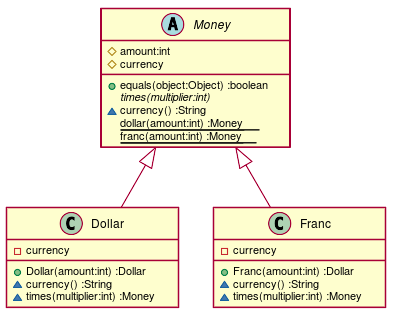
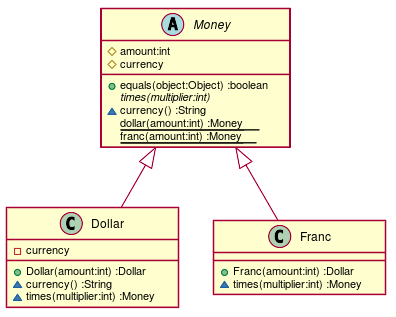
第９章 歩幅の調整 Step9

Changed region(s): [[0.5152, 0.6246, 1.0, 0.8233], [0.5152, 0.8801, 1.0, 0.9937]]

diff --git a/src/main/java/tdd/money/Franc.java b/src/main/java/tdd/money/Franc.java
@@ -1,13 +1,9 @@
 package tdd.money;
 
 class Franc extends Money {
-    private String currency;
     Franc(int amount) {
         this.amount = amount;
         currency = "CHF";
-    }
-    String currency() {
-        return currency;
     }
     Money times(int multiplier) {
         return new Franc(amount * multiplier);

diff --git a/docs/TDD.md b/docs/TDD.md
@@ -59,7 +59,7 @@
 ### クラス図
   
 
-![](./assets/0285dfa24ee25b18e00bb369b57da6820.png?0.917109878773382)  
+![](./assets/0285dfa24ee25b18e00bb369b57da6820.png?0.6270786078088448)  
 ### シーケンス図
   
   
@@ -127,13 +127,9 @@ class Dollar extends Money {
 package tdd.money;
   
 class Franc extends Money {
-    private String currency;
     Franc(int amount) {
         this.amount = amount;
         currency = "CHF";
-    }
-    String currency() {
-        return currency;
     }
     Money times(int multiplier) {
         return new Franc(amount * multiplier);

diff --git a/docs/src/TDD.md b/docs/src/TDD.md
@@ -67,9 +67,7 @@ class Dollar {
   ~times(multiplier:int) :Money
 }
 class Franc {
-  -currency
   +Franc(amount:int) :Dollar
-  ~currency() :String
   ~times(multiplier:int) :Money
 }
 abstract Money {
